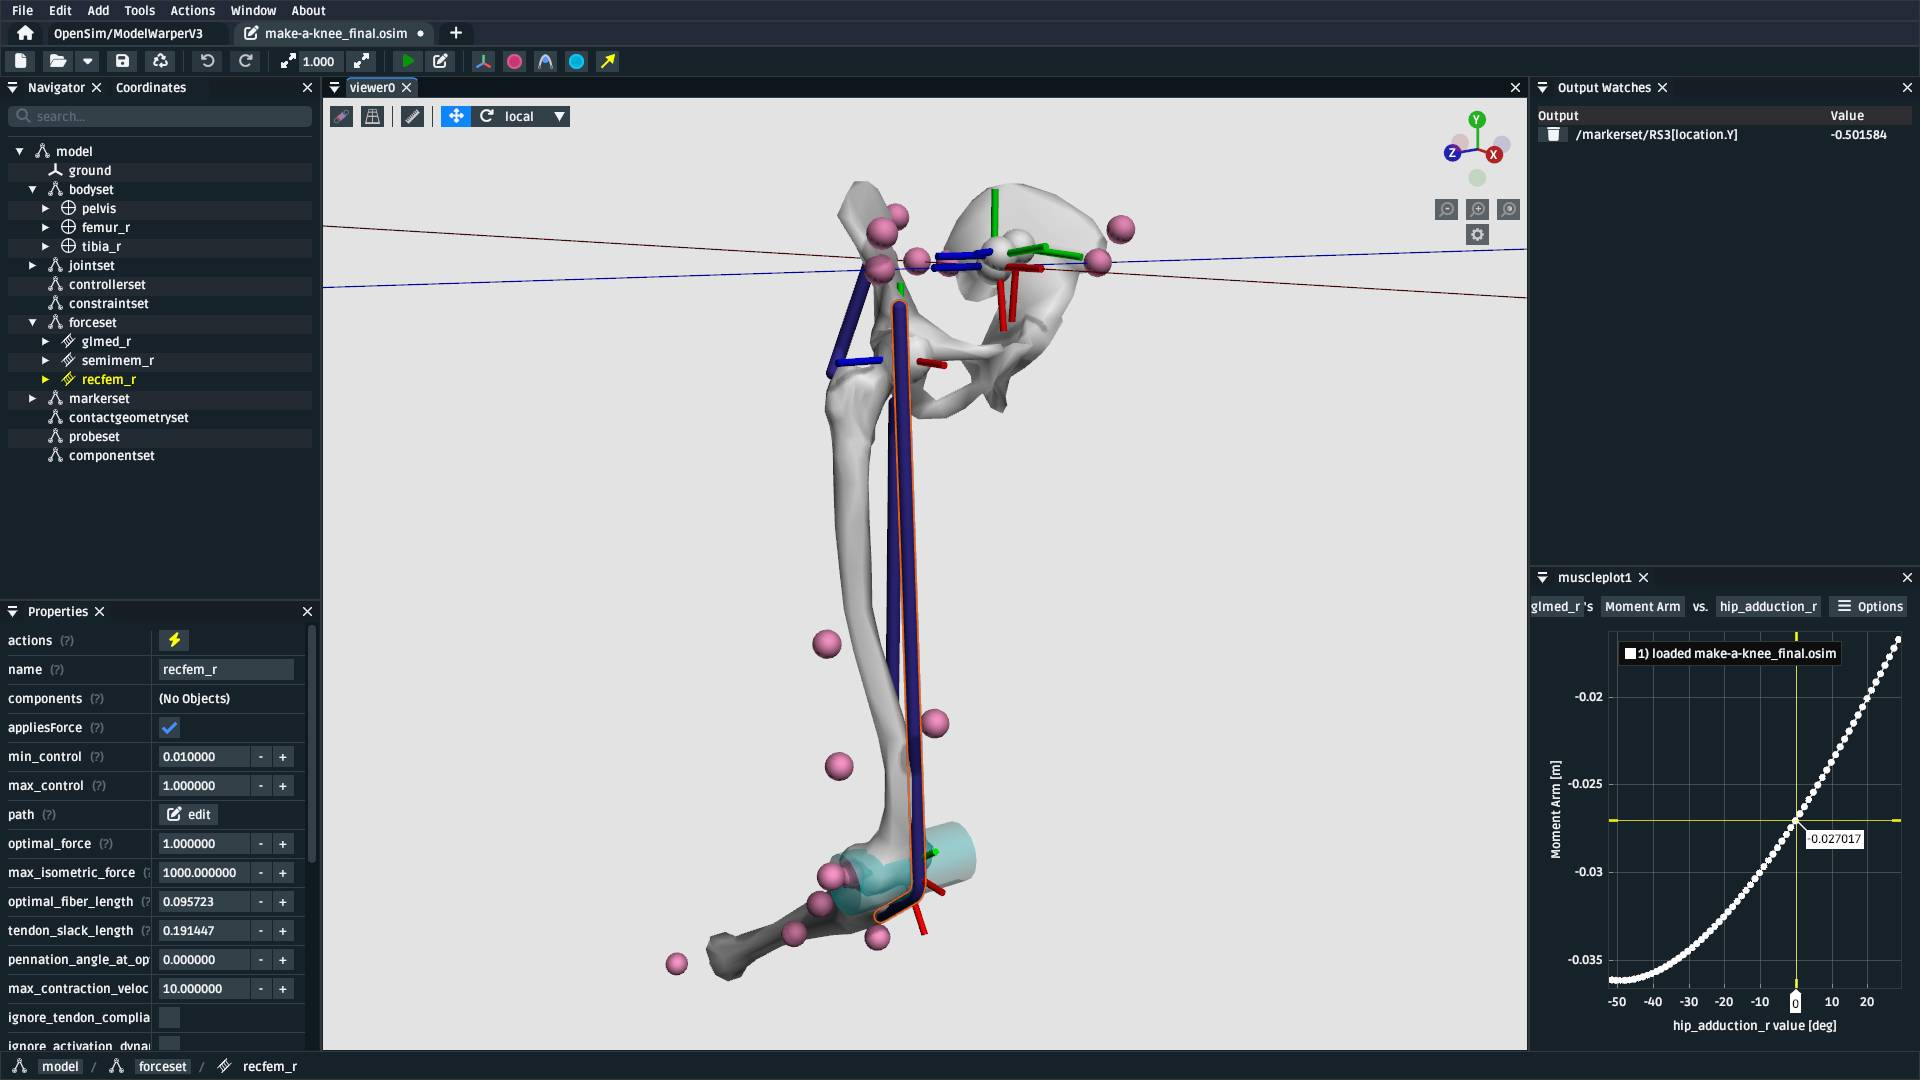
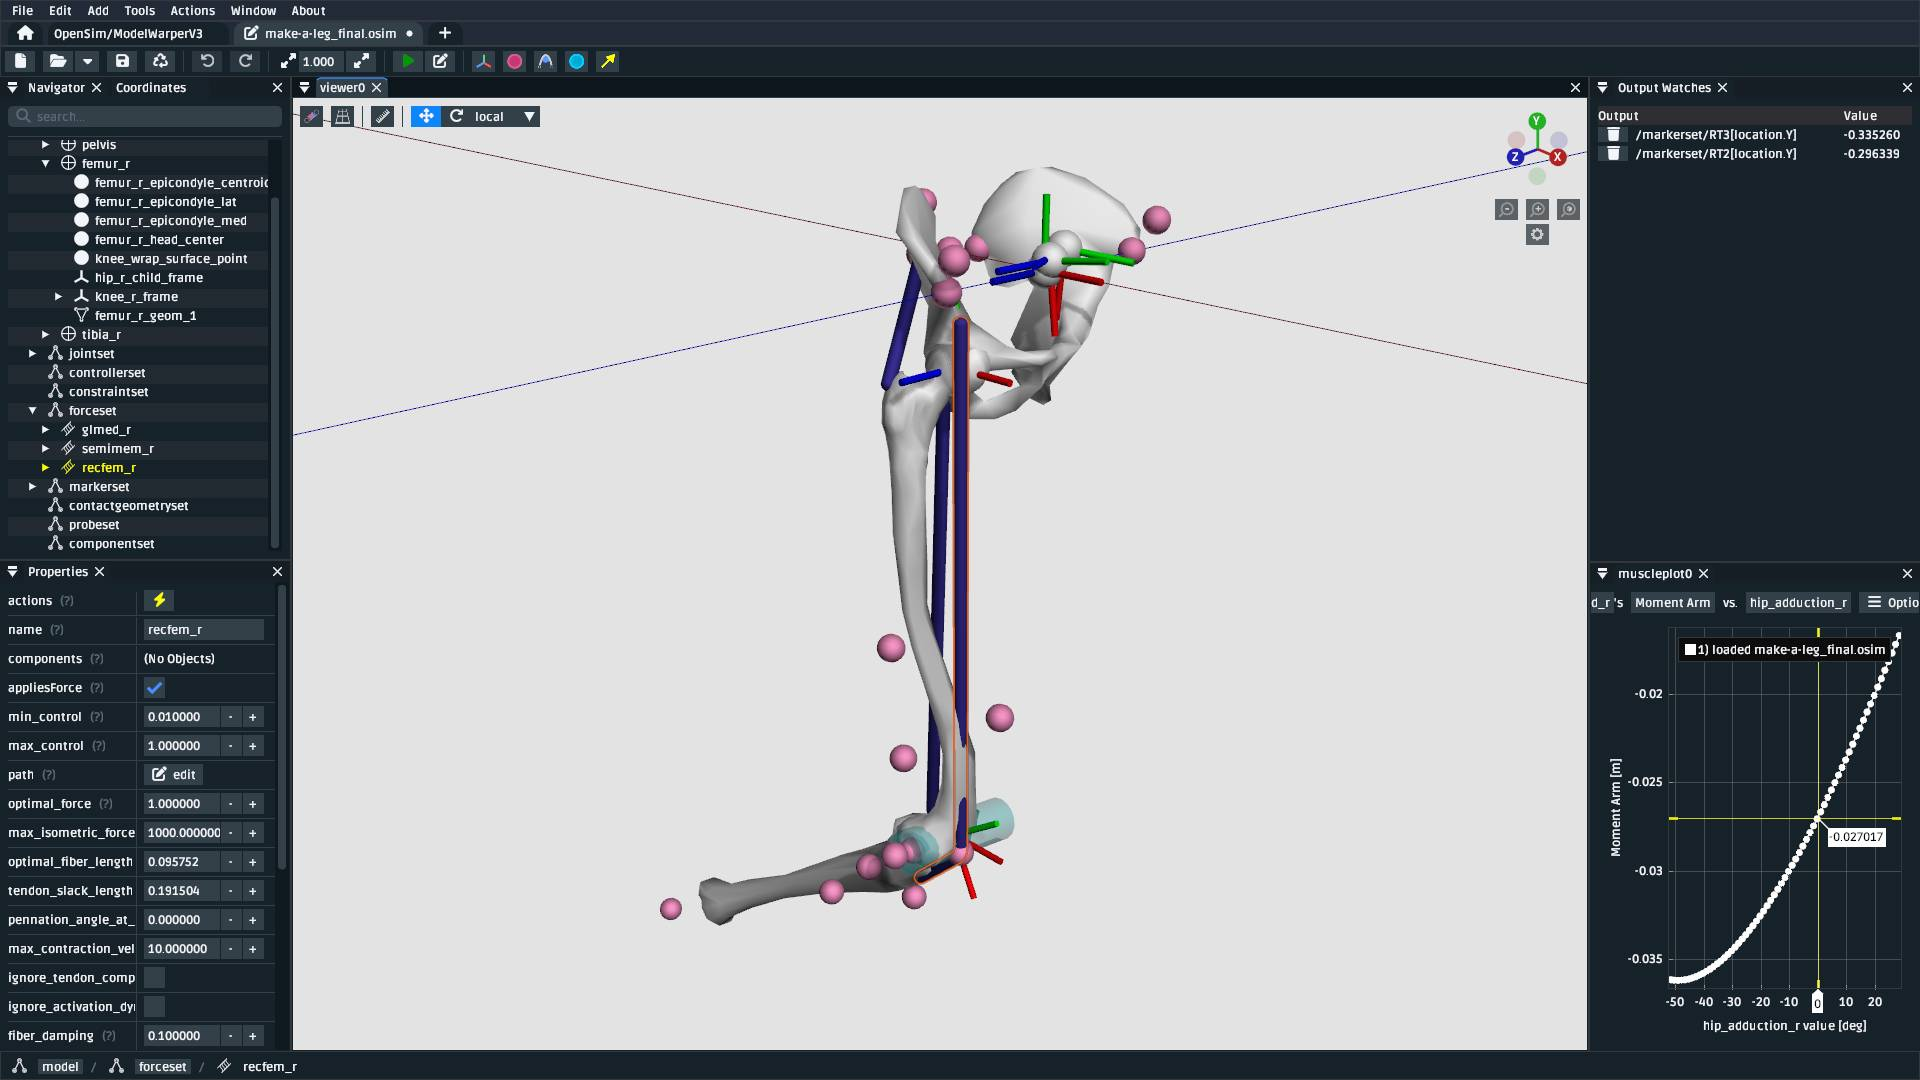
Add knee wrap surface point warping to 'The Model Warper' tutorial (#1110)

Changed region(s): [[0.0, 0.0306, 0.3125, 0.9778], [0.75, 0.0611, 1.0, 0.9778], [0.3438, 0.1528, 0.6562, 0.9167]]

diff --git a/docs/source/the-model-warper.rst b/docs/source/the-model-warper.rst
@@ -176,8 +176,8 @@ to warp the source bone mesh using paired landmarks on the femur meshes.
 .. note::
 
   In preparation for the non-linear warping steps, we have already established paired
-  landmarks *from* the source femur mesh in the model *to* a subject-specific femur
-  in :doc:`the-mesh-warper`. Here's a screenshot of how that looked:
+  warping landmarks *from* the source femur mesh in the model *to* a subject-specific
+  femur in :doc:`the-mesh-warper`. Here's a screenshot of how that looked:
 
   .. figure:: _static/the-model-warper/mesh-warper-showing-basic-TPS-warp-of-femur.jpeg
     :width: 40%
@@ -213,7 +213,7 @@ scaling step to the source model:
 
     After adding the "Apply Thin-Plate Spline (TPS) to Meshes" scaling step, the UI stops showing
     the resultant (output) model because the warping procedure is missing the information it needs
-    to apply the step.
+    to execute the step.
 
 The model warper's TPS-based mesh scaling step requires two sequences of landmarks. The
 `Walkthrough Model ZIP`_ includes a ``Geometry/`` directory that contains ``femur_r_warp.landmarks.csv``
@@ -298,8 +298,8 @@ the appropriate values. This time, from :numref:`stations-to-warp-for-knee-defin
      - ``/bodyset/femur_r``
      - The coordinate frame that the two landmark files are defined in.
    * - ``stations``
-     - ``/bodyset/femur_r/femur_r_epicondyle_centroid``, ``/bodyset/femur_r/femur_r_epicondyle_lat``, ``/bodyset/femur_r/femur_r_epicondyle_med``, ``/bodyset/femur_r/femur_r_head_center``, ``/markerset/RT1``, ``/markerset/RT2``, ``/markerset/RT3``, and ``/markerset/RKNE``
-     - Path within the OpenSim model to the ``Station``\s that should be warped by this scaling step.
+     - ``/bodyset/femur_r/femur_r_epicondyle_centroid``, ``/bodyset/femur_r/femur_r_epicondyle_lat``, ``/bodyset/femur_r/femur_r_epicondyle_med``, ``/bodyset/femur_r/femur_r_head_center``, ``/markerset/RT1``, ``/markerset/RT2``, ``/markerset/RT3``, ``/markerset/RKNE``, and ``/bodyset/femur_r/knee_wrap_surface_point``.
+     - Paths within the OpenSim model to the ``Station``\s that should be warped by this scaling step.
 
 After warping the stations, the femur should now be correctly joined to the pelvis and knee, but
 some further adjustments are still necessary:
@@ -392,10 +392,11 @@ To manually scale ``pelvis``, add a "Manually Scale Body Segments" scaling step:
     Use the "Add Scaling Step" menu to add a "Manually Scale Body Segments" scaling step.
 
 And add ``/bodyset/pelvis`` to ``bodies``, followed by setting the ``scale_factors`` to
-``(0.75828, 0.73484, 0.771248)``. Next, add a second "Manually Scale Body Segments" scaling
-step with ``/bodyset/tibia_r`` in ``bodies`` and ``scale_factors`` of ``(0.776503, 0.849965, 0.890335)``.
+``(0.75828, 0.73484, 0.771248)``.
 
-You should end up with two manual scaling steps for the other two body segments, which
+Next, add a second "Manually Scale Body Segments" scaling step with ``/bodyset/tibia_r``
+in ``bodies`` and ``scale_factors`` of ``(0.776503, 0.849965, 0.890335)``. You should
+end up with two manual scaling steps for the other two body segments, which
 should scale the rest of the model to roughly match the femur:
 
 .. figure:: _static/the-model-warper/after-applying-manual-scaling-steps.jpeg
@@ -409,12 +410,34 @@ should scale the rest of the model to roughly match the femur:
 Scale Wrap Cylinder
 ^^^^^^^^^^^^^^^^^^^
 
-.. error::
+The model contains a ``WrapCylinder`` called ``knee_wrap``, which should also be scaled to
+account for the femur warp.
 
-  TODO: there are appropriate wrap-cylinder-scaling steps available but the markers that
-  were supplied don't include a knee surface marker and it might be better to supply a
-  "manually scale wrap objects" scaling step to match the previous manual scaling step -
-  depends if everything should be point-driven!
+The TPS technique can only be used on points, not shapes like cylinders. Therefore, we will use
+a heuristic scaling step that recomputes the radius of the cylinder as the distance between
+the cylinder's axis (midline) and a station in the model. That way, we can TPS-warp a station
+and use its warped location to compute a cylinder radius that more closely matches the warped
+geometry.
+
+To scale ``knee_wrap``'s radius, add a "Recalculate WrapCylinder `radius` from Station
+Projection onto its Midline" scaling step:
+
+.. figure:: _static/the-model-warper/apply-recalculate-wrapcylinder-radius-scaling-step-button.jpeg
+  :width: 60%
+
+  Use the "Add Scaling Step" menu to add a "Recalculate WrapCylinder `radius` from Station Projection
+  onto its Midline" scaling step.
+
+And then choose ``/bodyset/femur_r/knee_wrap_surface_point`` as the ``station_path`` and ``/bodyset/femur_r/knee_r_frame/wrapobjectset/knee_wrap``
+as the ``wrap_cylinder_path``, which should rescale the cylinder to more closely match
+the warped femur geometry:
+
+.. figure:: _static/the-model-warper/after-recalculating-wrapcylinder-radius.jpeg
+  :width: 60%
+
+  The model after recalculting the knee wrap's radius. Without this scaling step, the knee wrap
+  is larger than it should be. *Note*: ``recfem_r`` clips through the femur bone because the mesh
+  warp, in this case, is rather extreme (choosing warp landmarks is, itself, an art).
 
 
 Export Result Model
@@ -437,16 +460,16 @@ located in the toolbar:
 
 .. warning::
 
-  If your warped model needs to be compatible with OpenSim <4.6, you should also enable the
-  "Bake StationDefinedFrames" option using the gear icon (⚙) next to the "Export Warped Model"
-  button:
+  If your warped model needs to be compatible with OpenSim 4.5 and earlier, you should also
+  enable the "Bake StationDefinedFrames" option using the gear icon (⚙) next to the "Export
+  Warped Model" button:
 
   .. figure:: _static/the-model-warper/bake-station-defined-frames-option.jpeg
     :width: 40%
 
     The "Bake StationDefinedFrames" checkbox causes the model warper to also convert all
     ``StationDefinedFrame``\s in the source model into ``PhysicalOffsetFrame``\s, which are
-    compatible with OpenSim <4.6.
+    compatible with OpenSim 4.5 and earlier.
 
 This will then open a standard OpenSim model editor tab (:numref:`model-editor-after-exporting-model`, the
 same workflow that's used to edit an ``.osim`` file). You can then save the ``.osim`` file, if you'd

diff --git a/CHANGELOG.md b/CHANGELOG.md
@@ -16,6 +16,10 @@ on [Keep a Changelog](https://keepachangelog.com/en/1.0.0/).
   with OpenSim's IK solver (#1109).
 - Fixed a crash that could occur when deleting a scaling step from a model warping
   pipeline in the model warper workflow (#1115).
+- A knee wrap cylinder surface marker was added to the "Make a Leg" tutorial, and
+  a knee wrap cylinder radius recalculation step was added to "The Model Warper"
+  tutorial, to demonstrate how to partially scale wrapping geometry in a model
+  (#1110).
 
 ## [0.6.0] - 2025/09/08
 
